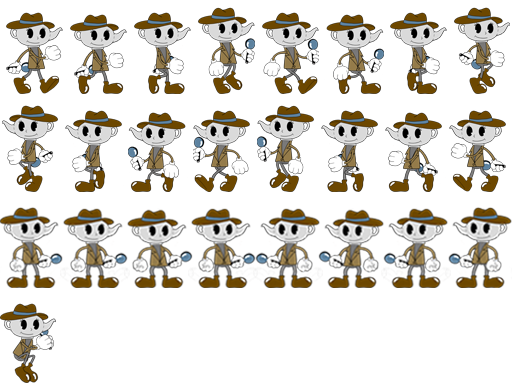
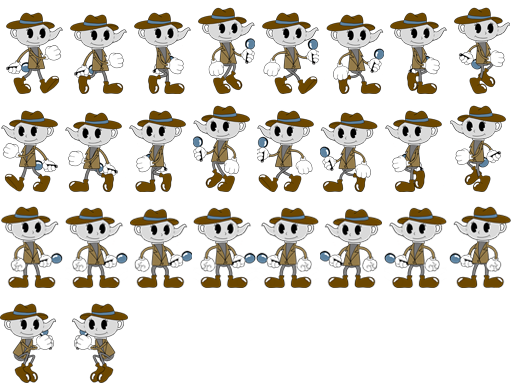
Placeholders and New Look

Changed region(s): [[0.0, 0.2812, 1.0, 0.5], [0.0, 0.5312, 1.0, 0.75], [0.125, 0.7812, 0.25, 1.0]]

diff --git a/src/scenes/TestScene.js b/src/scenes/TestScene.js
@@ -11,6 +11,12 @@ TestScene.prototype.constructor = TestScene;
 TestScene.prototype.preload = function(){
 
     Scene.prototype.loadToScene.call(this,"teapot", "./assets/teapot.png");
+    Scene.prototype.loadToScene.call(this,"goldenTeapot", "./assets/goldenTeapot.png");
+    Scene.prototype.loadToScene.call(this,"door", "./assets/door.png");
+    Scene.prototype.loadToScene.call(this,"doorShadow", "./assets/doorShadow.png");
+    Scene.prototype.loadToScene.call(this,"key", "./assets/key.png");
+    Scene.prototype.loadToScene.call(this,"keyShadow", "./assets/keyShadow.png");
+    Scene.prototype.loadToScene.call(this,"teapotShadow", "./assets/teapotShadow.png");
     Scene.prototype.loadToScene.call(this,"palette0","./assets/palette0.png");
     Scene.prototype.loadToScene.call(this,"tilemap64","./assets/tilemap64.png");
     Scene.prototype.loadToScene.call(this,"layermap0","./assets/layermap0.png");

diff --git a/src/gameobjects/Key.js b/src/gameobjects/Key.js
@@ -2,6 +2,9 @@ function Key(scene, x, y, depth, isShadow){
     Pickupable.call(this,scene,x,y,depth);
     this.type.push("Key");
     this.isShadow = isShadow;
+    this.vel = 0.3;
+    this.initPosY = this.pos.y;
+    this.endPosY = this.pos.y + Game.TILE_SIZE/4;
     this.sprite = this.prepareSprite(this.isShadow);
 }
 
@@ -12,9 +15,9 @@ Key.prototype.prepareSprite = function(isShadow){
     let sprite = null;
 
     if(!isShadow){
-        sprite = new Sprite(this.scene,null,0,0,0,0,Game.TILE_SIZE,Game.TILE_SIZE,0);
+        sprite = new Sprite(this.scene,"key",0,0,0,0,Game.TILE_SIZE,Game.TILE_SIZE,0);
     }else{
-        sprite = new Sprite(this.scene,null,0,0,0,0,Game.TILE_SIZE,Game.TILE_SIZE,0);
+        sprite = new Sprite(this.scene,"keyShadow",0,0,0,0,Game.TILE_SIZE,Game.TILE_SIZE,0);
     }
 
     return sprite;

diff --git a/src/gameobjects/Door.js b/src/gameobjects/Door.js
@@ -4,9 +4,9 @@ function Door(scene, x, y){
     this.depth = 0;
     this.width = Game.TILE_SIZE;
     this.height = Game.TILE_SIZE * 2;
-    this.sprite = new Sprite(this.scene,null,0,0,0,0,Game.TILE_SIZE,Game.TILE_SIZE*2,0);
+    this.sprite = new Sprite(this.scene,"door",0,0,0,0,Game.TILE_SIZE,Game.TILE_SIZE*2,0);
     this.walls = [new Wall(this.scene,x,y,0), new Wall(this.scene,x,y+Game.TILE_SIZE,0)];
-    this.shadowSprite = new Sprite( this.scene,null,
+    this.shadowSprite = new Sprite( this.scene,"doorShadow",
                                     this.pos.x,this.pos.y - Game.TILE_SIZE * this.scene.shadowLevel,
                                     0,0,Game.TILE_SIZE,Game.TILE_SIZE*2,0);
     console.log(this.pos);

diff --git a/src/gameobjects/ShadowPlayer.js b/src/gameobjects/ShadowPlayer.js
@@ -9,7 +9,7 @@ ShadowPlayer.prototype = Object.create(Player.prototype);
 ShadowPlayer.prototype.constructor = ShadowPlayer;
 
 ShadowPlayer.prototype.prepareAnimations = function(){
-    let sprite = new Sprite(this.scene, "teapot", this.x, this.y,0,0,64,96,0);
+    let sprite = new Sprite(this.scene, "teapotShadow", this.x, this.y,0,0,64,96,0);
     sprite.addAnimation("idleR",16,19,4,-1);
     sprite.addAnimation("walkR",0,7,3,-1);
     sprite.addAnimation("idleL",20,23,4,-1);

diff --git a/src/gameobjects/Player.js b/src/gameobjects/Player.js
@@ -52,8 +52,8 @@ Player.prototype.prepareAnimations = function(){
     sprite.addAnimation("idleL",20,23,4,-1);
     sprite.addAnimation("walkL",8,15,3,-1);
 
-    sprite.addAnimation("jumpUpL",24,24,3,-1);
-    sprite.addAnimation("jumpDownL",24,24,3,-1);
+    sprite.addAnimation("jumpUpL",25,25,3,-1);
+    sprite.addAnimation("jumpDownL",25,25,3,-1);
     sprite.addAnimation("jumpUpR",24,24,3,-1);
     sprite.addAnimation("jumpDownR",24,24,3,-1);
 

diff --git a/src/gameobjects/GoldenTeapot.js b/src/gameobjects/GoldenTeapot.js
@@ -4,7 +4,7 @@ function GoldenTeapot(scene, x, y){
     this.vel = 0.2;
     this.initPosY = this.pos.y - Game.TILE_SIZE/2;
     this.endPosY = this.pos.y;
-    this.sprite = new Sprite(this.scene,null,0,0,0,0,Game.TILE_SIZE/2,Game.TILE_SIZE/2,0);
+    this.sprite = new Sprite(this.scene,"goldenTeapot",0,0,0,0,Game.TILE_SIZE/2,Game.TILE_SIZE/2,0);
 }
 
 GoldenTeapot.prototype = Object.create(Pickupable.prototype);

diff --git a/src/Sprite.js b/src/Sprite.js
@@ -45,6 +45,8 @@ Sprite.prototype.draw = function(camera){
                             posAtViewPort.x , posAtViewPort.y, 
                             this.width, this.height);
         
+    }else{
+        context.drawImage(this.img,posAtViewPort.x , posAtViewPort.y );
     }
 }
 
